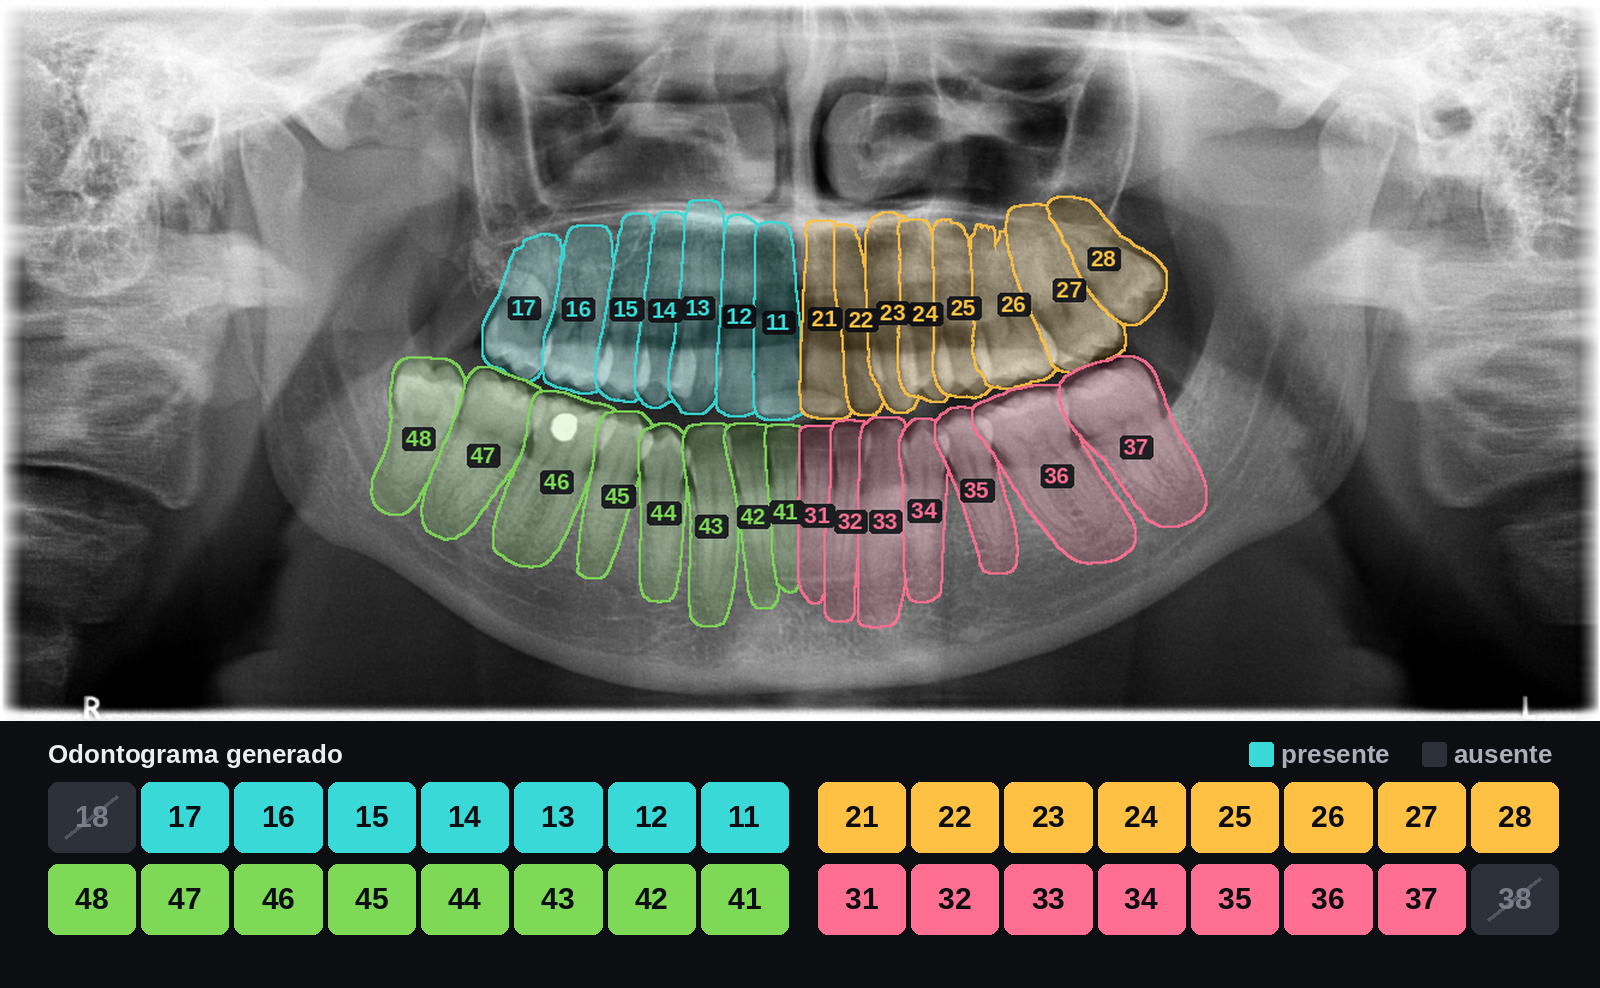
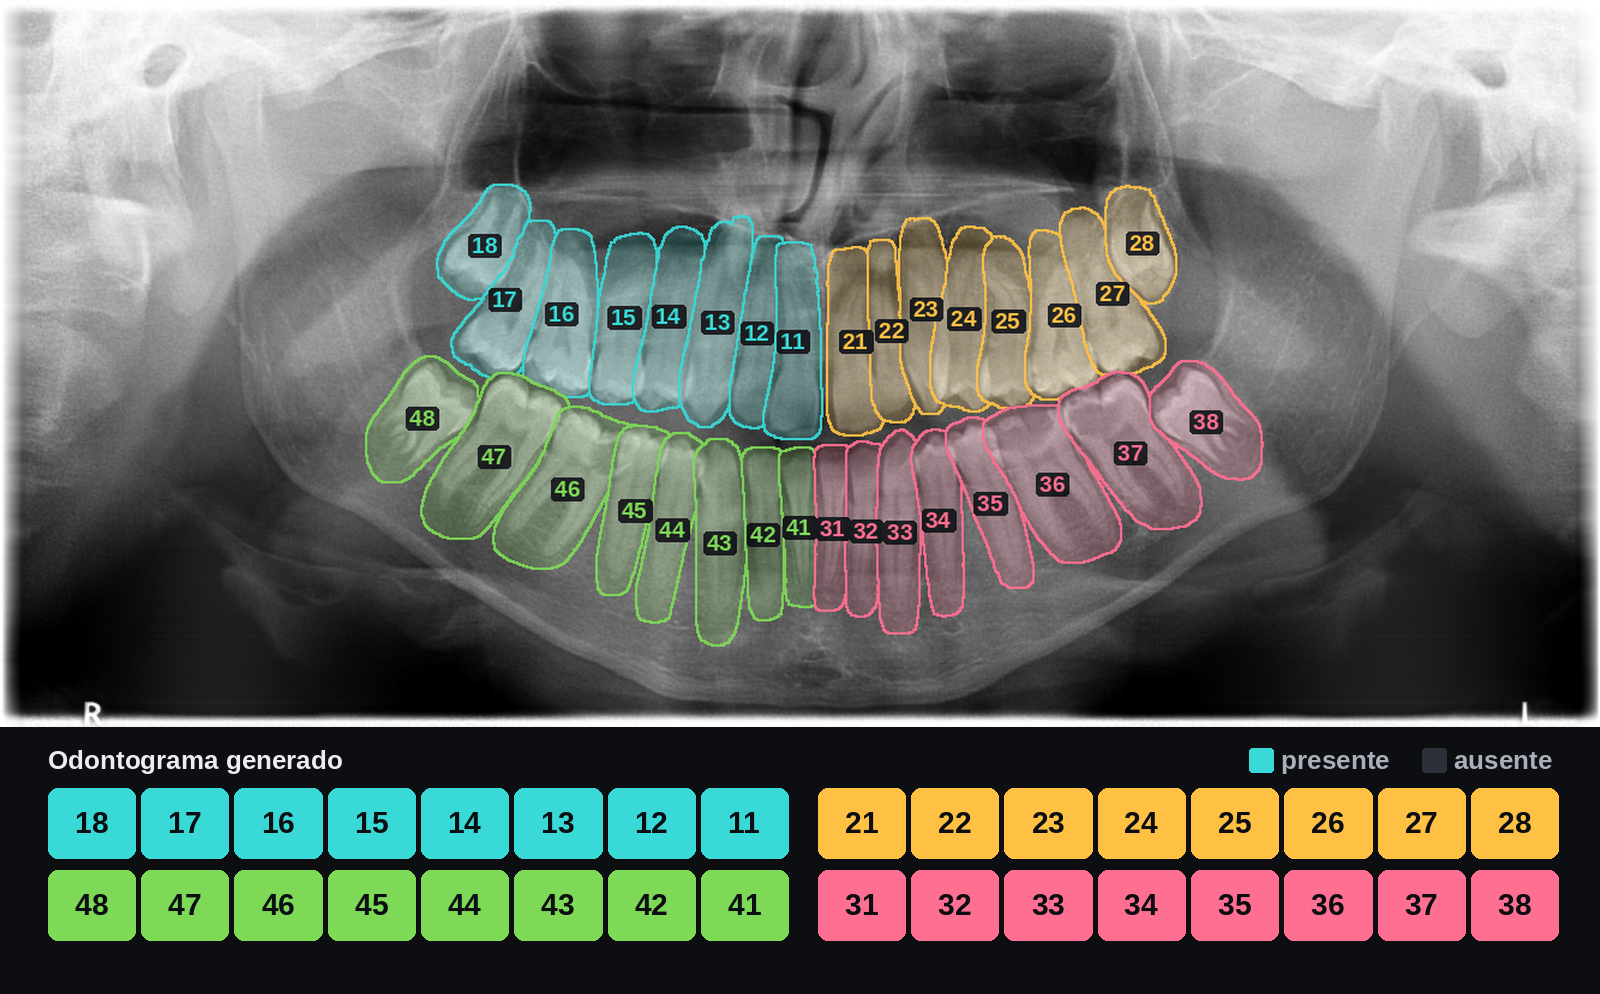
Excluir radiografias duplicadas de las particiones
DENTEX repite radiografias con distinto nombre de fichero (11 copias en
enumeracion, 27 en patologia). Una de la particion de prueba estaba tambien
en entrenamiento. Las particiones excluyen ahora las copias exactas por MD5.
Reentrenado: 1,64 errores por radiografia en prueba (antes 1,69).

diff --git a/src/dentalvision/dentex.py b/src/dentalvision/dentex.py
@@ -17,15 +17,33 @@ deduce de DONDE esta el diente en la imagen, la posicion de COMO es su forma.
 
 from __future__ import annotations
 
+import hashlib
 import json
 from dataclasses import dataclass
 from functools import cached_property
 from pathlib import Path
 
 RAIZ = Path(__file__).resolve().parents[2]
-DENTEX = RAIZ / "data" / "dentex" / "training_data"
+DATOS = RAIZ / "data" / "dentex"
 
 PATOLOGIAS = ["Impacted", "Caries", "Periapical Lesion", "Deep Caries"]
+NOMBRE_PATOLOGIA = {
+    "Impacted": "impactado",
+    "Caries": "caries",
+    "Periapical Lesion": "lesión periapical",
+    "Deep Caries": "caries profunda",
+}
+
+# La prueba oficial del concurso se publicó con las etiquetas clínicas
+# originales (LabelMe, en turco), no con las 4 clases de DENTEX. Solo se
+# traducen las que no admiten duda. "kanal" (endodoncia) y "küretaj" (curetaje)
+# no tienen equivalente claro entre las 4 clases, y sano, extracción y
+# fractura no son clases de DENTEX: se descartan.
+TRADUCCION_PRUEBA = {
+    "çürük": "Caries",
+    "gömülü": "Impacted",
+    "lezyon": "Periapical Lesion",
+}
 
 # Nombre clinico por posicion FDI (1..8), del centro hacia atras.
 NOMBRE_POSICION = {
@@ -105,23 +123,35 @@ class Radiografia:
 
 
 class Subconjunto:
-    """Uno de los tres subconjuntos de DENTEX."""
+    """Un subconjunto de DENTEX: los dos etiquetados de entrenamiento y los dos
+    conjuntos oficiales del concurso (validación y prueba)."""
 
+    # nombre -> (carpeta de imágenes, anotaciones), relativas a data/dentex
     CARPETAS = {
-        "enumeracion": ("quadrant_enumeration", "train_quadrant_enumeration.json"),
-        "patologia": (
-            "quadrant-enumeration-disease",
-            "train_quadrant_enumeration_disease.json",
+        "enumeracion": (
+            "training_data/quadrant_enumeration/xrays",
+            "training_data/quadrant_enumeration/train_quadrant_enumeration.json",
         ),
+        "patologia": (
+            "training_data/quadrant-enumeration-disease/xrays",
+            "training_data/quadrant-enumeration-disease/train_quadrant_enumeration_disease.json",
+        ),
+        "validacion_oficial": (
+            "validation_data/quadrant_enumeration_disease/xrays",
+            "validation_triple.json",
+        ),
+        # Una anotación LabelMe por imagen, en esta carpeta.
+        "prueba_oficial": ("test_data/disease/input", "test_data/disease/label"),
     }
 
-    def __init__(self, nombre: str, raiz: Path = DENTEX):
+    def __init__(self, nombre: str, raiz: Path = DATOS):
         if nombre not in self.CARPETAS:
             raise ValueError(f"Subconjunto desconocido: {nombre}")
-        carpeta, fichero = self.CARPETAS[nombre]
+        imagenes, anotaciones = self.CARPETAS[nombre]
         self.nombre = nombre
-        self.dir_imagenes = raiz / carpeta / "xrays"
-        self.ruta_json = raiz / carpeta / fichero
+        self.dir_imagenes = raiz / imagenes
+        self.ruta_json = raiz / anotaciones
+        self._huellas: dict[str, str] = {}
         if not self.ruta_json.exists():
             raise FileNotFoundError(
                 f"No encuentro {self.ruta_json}. Descomprime el dataset primero."
@@ -133,6 +163,8 @@ class Subconjunto:
 
     @cached_property
     def radiografias(self) -> list[Radiografia]:
+        if self.nombre == "prueba_oficial":
+            return self._labelme()
         por_imagen: dict[int, list[Diente]] = {}
         for a in self._bruto["annotations"]:
             pat = None
@@ -163,8 +195,41 @@ class Subconjunto:
             )
         return salida
 
+    def _labelme(self) -> list[Radiografia]:
+        salida = []
+        for i, f in enumerate(sorted(self.ruta_json.glob("*.json"))):
+            datos = json.loads(f.read_text())
+            dientes = []
+            for forma in datos["shapes"]:
+                _, clase, fdi = forma["label"].split("-")
+                if clase not in TRADUCCION_PRUEBA:
+                    continue
+                xs = [x for x, _ in forma["points"]]
+                ys = [y for _, y in forma["points"]]
+                dientes.append(Diente(
+                    cuadrante=int(fdi) // 10,
+                    posicion=int(fdi) % 10,
+                    bbox=(min(xs), min(ys), max(xs) - min(xs), max(ys) - min(ys)),
+                    poligono=[v for punto in forma["points"] for v in punto],
+                    patologia=TRADUCCION_PRUEBA[clase],
+                ))
+            salida.append(Radiografia(
+                id=i,
+                fichero=f.with_suffix(".png").name,
+                ancho=datos["imageWidth"],
+                alto=datos["imageHeight"],
+                dientes=dientes,
+            ))
+        return salida
+
     def ruta(self, r: Radiografia) -> Path:
         return self.dir_imagenes / r.fichero
+
+    def huella(self, r: Radiografia) -> str:
+        """MD5 del fichero: identifica copias exactas con distinto nombre."""
+        if r.fichero not in self._huellas:
+            self._huellas[r.fichero] = hashlib.md5(self.ruta(r).read_bytes()).hexdigest()
+        return self._huellas[r.fichero]
 
     def __len__(self) -> int:
         return len(self.radiografias)

diff --git a/src/dentalvision/particiones.py b/src/dentalvision/particiones.py
@@ -8,12 +8,19 @@ hay que leer cualquier metrica posterior.
    modelo a predecir dos veces el mismo diente; evaluar con ellas hace imposible
    saber si un fallo es del modelo o de la etiqueta.
 
-2. LA PARTICION ES POR IMAGEN.
+2. LA PARTICION ES POR IMAGEN, SIN DUPLICADOS.
    Lo correcto en imagen medica es separar por PACIENTE: si dos radiografias de
    la misma boca caen una en entrenamiento y otra en prueba, el modelo ya ha
    visto ese caso y las metricas salen infladas. DENTEX no publica identificador
    de paciente, asi que asumimos una imagen por paciente. Es un supuesto, no un
    hecho, y queda escrito aqui.
+
+   Lo que si se puede comprobar es la copia exacta: DENTEX repite algunas
+   radiografias con distinto nombre de fichero (11 de las 634 de enumeracion).
+   De cada grupo de copias identicas se queda la primera por nombre y el resto
+   se excluye. Sin esto, una radiografia de prueba estaba tambien en
+   entrenamiento. `excluir` permite ademas apartar imagenes que se usan como
+   prueba en otro sitio (los conjuntos oficiales del concurso).
 
 3. LA SEMILLA ES FIJA.
    Misma particion en cada ejecucion. Sin esto, comparar dos entrenamientos no
@@ -54,9 +61,16 @@ def particionar(
     prueba: float = 0.15,
     semilla: int = SEMILLA,
     excluir_corruptas: bool = True,
+    excluir: frozenset[str] = frozenset(),
 ) -> Particion:
     limpias, fuera = [], []
-    for r in sub.radiografias:
+    vistas: set[str] = set(excluir)
+    for r in sorted(sub.radiografias, key=lambda r: r.fichero):
+        huella = sub.huella(r)
+        if huella in vistas:
+            fuera.append(r)  # copia exacta de otra radiografia
+            continue
+        vistas.add(huella)
         if excluir_corruptas and r.duplicados:
             fuera.append(r)
         elif not r.dientes:
@@ -66,6 +80,7 @@ def particionar(
 
     # Ordenar antes de barajar: el orden de lectura del JSON no esta garantizado
     # entre versiones, y sin esto la semilla no reproduce la misma particion.
+    # (Ya vienen ordenadas del bucle; se deja explicito.)
     limpias.sort(key=lambda r: r.fichero)
     random.Random(semilla).shuffle(limpias)
 
@@ -78,3 +93,28 @@ def particionar(
         prueba=limpias[n_val : n_val + n_pru],
         excluidas=fuera,
     )
+
+
+OFICIALES = ("validacion_oficial", "prueba_oficial")
+
+
+def particion_de(tarea: str) -> tuple[Subconjunto, Particion]:
+    """Subconjunto y partición de cada tarea.
+
+    Numeración: 70/15/15 sobre el subconjunto de enumeración.
+    Patología: 85/15 sobre el de patología, sin prueba propia, porque la prueba
+    son los conjuntos oficiales del concurso; por eso se apartan las copias de
+    esos conjuntos que aparecen entre las imágenes de entrenamiento.
+    """
+    if tarea == "numeracion":
+        sub = Subconjunto("enumeracion")
+        return sub, particionar(sub)
+    if tarea == "patologia":
+        sub = Subconjunto("patologia")
+        oficiales = frozenset(
+            s.huella(r) for s in map(Subconjunto, OFICIALES) for r in s.radiografias
+        )
+        return sub, particionar(
+            sub, val=0.15, prueba=0.0, excluir_corruptas=False, excluir=oficiales
+        )
+    raise ValueError(f"Tarea desconocida: {tarea}")
